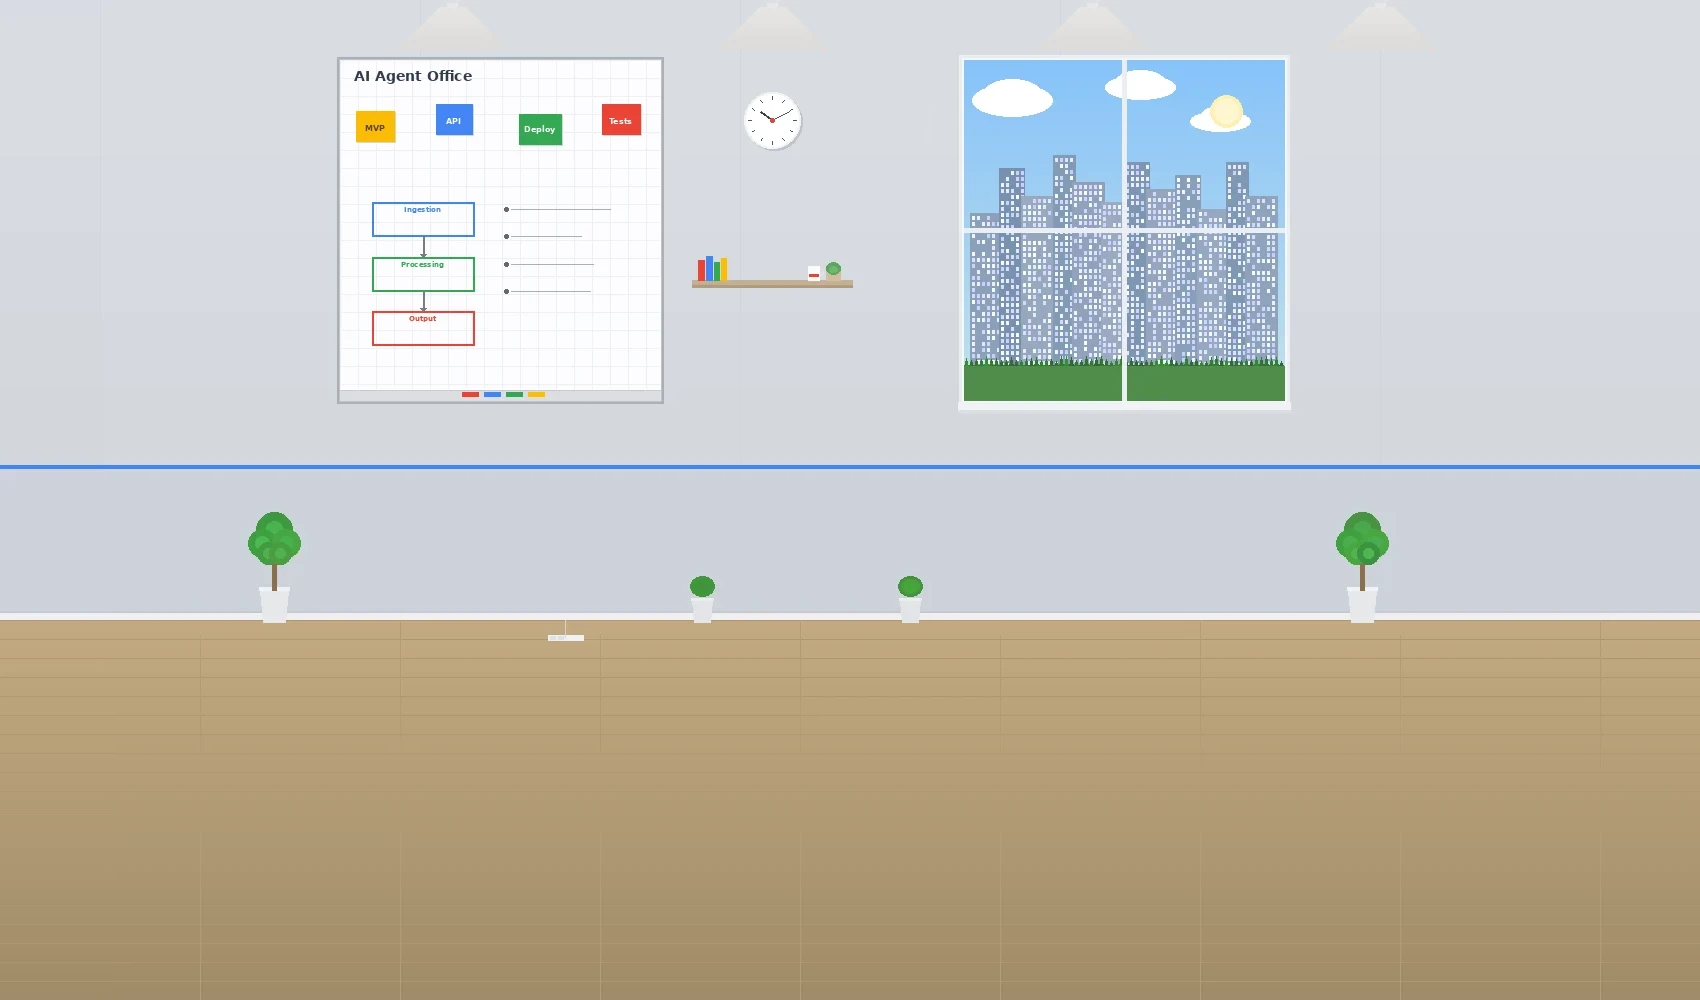
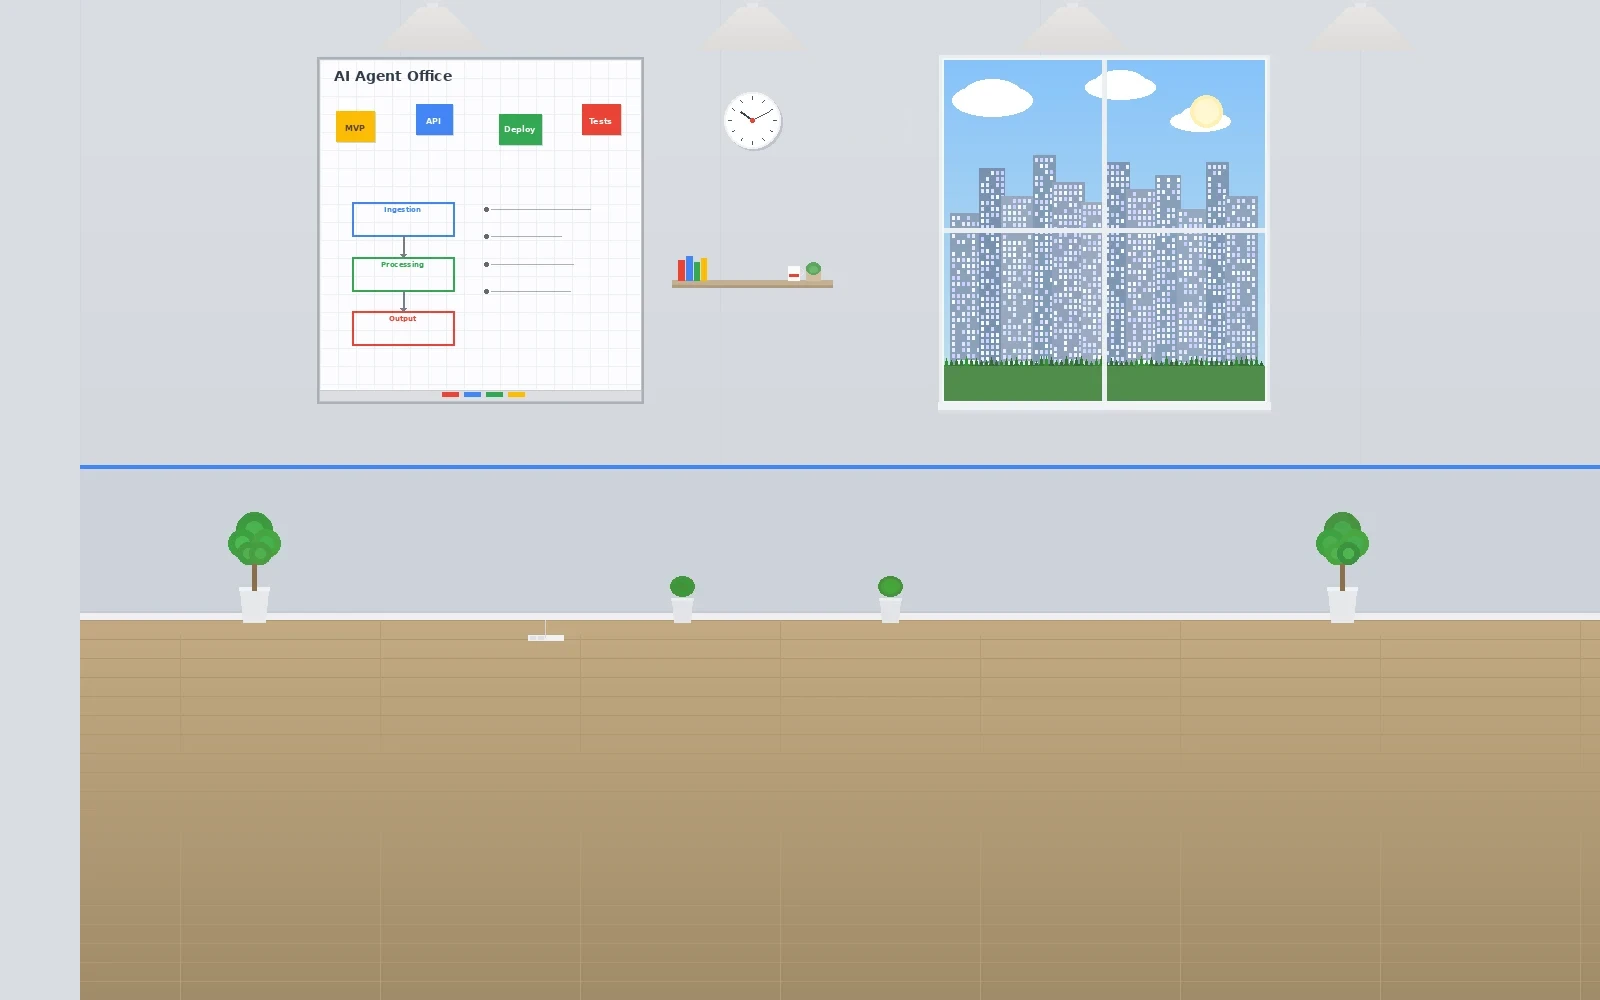
Shift office backgrounds 80px right + restore speech bubbles
Whiteboard repositioned: left margin 237→317px (same 1600px canvas).
Entire image shifted so baseboard moves with content.
Stripes removed. OfficeScene.svelte restored from abbb49f.

diff --git a/src/lib/components/OfficeScene.svelte b/src/lib/components/OfficeScene.svelte
@@ -30,7 +30,7 @@
 		if (totalRows === 1) return { bottom: 22, scale: 1.45, spread: { start: 22, range: 56 }, paperTop: 62 };
 		// 2 rows: back smaller/higher, front bigger/lower
 		if (rowIdx === 0) return { bottom: 34, scale: 1.0, spread: { start: 22, range: 56 }, paperTop: 52 };
-		return { bottom: 8, scale: 1.3, spread: { start: 22, range: 56 }, paperTop: 78 };
+		return { bottom: 14, scale: 1.3, spread: { start: 22, range: 56 }, paperTop: 74 };
 	}
 
 	// Agent position map (id → left %)
@@ -277,9 +277,16 @@
 				{#each row as agent, idx}
 					{@const pct = row.length === 1 ? 50 : (rowStyle.spread.start + idx * (rowStyle.spread.range / (row.length - 1)))}
 					{@const agentState = getAgentState(agent.id)}
+					{@const bubblePos = row.length >= 3 ? (idx === 0 ? 'right' : idx === row.length - 1 ? 'left' : 'center') : 'right'}
+					{@const activityText = getAgentActivity(agent.id) ?? ''}
+					{@const textLen = activityText.length}
+					{@const bubbleBase = textLen < 20 ? 68 : textLen < 40 ? 65 : 62}
+					{@const bubbleLift = bubblePos === 'center' ? (textLen < 25 ? 12 : 18) : 0}
 					<div
 						class="workstation-wrap {agentState}"
-						style="left:{pct}%;--agent-color:{agent.color};--agent-scale:{rowStyle.scale}"
+						class:bubble-left={bubblePos === 'left'}
+						class:bubble-center={bubblePos === 'center'}
+						style="left:{pct}%;--agent-color:{agent.color};--agent-scale:{rowStyle.scale};--bubble-bottom:{bubbleBase + bubbleLift}px"
 					>
 						<!-- Individual desk -->
 						<div class="ind-desk">
@@ -308,8 +315,14 @@
 						<div class="work-pulse"></div>
 						<!-- Character -->
 						<PixelCharacter {agent} agentState={agentState} activity={getAgentActivity(agent.id)} />
-						<!-- Name pill (individual) -->
-						<div class="name-pill" style="--pill-color:{agent.color}">
+						<!-- Speech bubble (above head, only when active) -->
+						{#if getAgentActivity(agent.id) && (agentState === 'working' || agentState === 'thinking')}
+							<div class="speech-bubble {agentState}" style="--bubble-accent:{agent.color}">
+								<span class="bubble-text">{getAgentActivity(agent.id)}</span>
+							</div>
+						{/if}
+						<!-- Name pill (always below desk) -->
+						<div class="agent-name-pill" style="--pill-color:{agent.color}">
 							{agent.name}
 						</div>
 					</div>
@@ -1033,25 +1046,7 @@
 	.desk-leg.dl { left: 12%; }
 	.desk-leg.dr { right: 12%; }
 
-	/* ── Name pills on desk front ── */
-	.name-pill {
-		position: absolute;
-		bottom: -22px;
-		left: 50%;
-		transform: translateX(-50%);
-		background: color-mix(in srgb, var(--pill-color, #4caf50) 70%, #1a1a2e 30%);
-		color: #fff;
-		font-family: 'Chakra Petch', monospace;
-		font-size: 10px;
-		font-weight: 700;
-		letter-spacing: 0.5px;
-		padding: 2px 10px;
-		border-radius: 10px;
-		white-space: nowrap;
-		box-shadow: 0 2px 4px rgba(0,0,0,0.3), inset 0 1px 0 rgba(255,255,255,0.2);
-		z-index: 12;
-		text-shadow: 0 1px 1px rgba(0,0,0,0.3);
-	}
+	/* ── Name pills (legacy, replaced by agent-card) ── */
 
 	/* ── Coffee mug ── */
 	.coffee-mug {
@@ -1178,12 +1173,158 @@
 		transform: translateX(-50%) scale(var(--agent-scale, 1.25));
 		transform-origin: bottom center;
 	}
-	/* Hide default PixelCharacter labels — names are on desk pills, status below desk */
+	/* Hide default PixelCharacter labels — replaced by unified agent-card */
 	.workstation-wrap :global(.ws-label-top) {
 		display: none !important;
 	}
 	.workstation-wrap :global(.ws-label-bottom) {
-		bottom: -42px;
+		display: none !important;
+	}
+
+	/* ── Speech bubble (comic style, above character head) ── */
+	.speech-bubble {
+		position: absolute;
+		bottom: var(--bubble-bottom, 65px);
+		left: 55%;
+		width: max-content;
+		max-width: 110px;
+		min-width: 50px;
+		padding: 4px 7px;
+		border-radius: 10px;
+		font-family: 'Fira Code', monospace;
+		font-size: 9px;
+		font-weight: 600;
+		line-height: 1.3;
+		text-align: left;
+		white-space: normal;
+		z-index: 25;
+		animation: bubblePop 0.3s ease-out;
+	}
+	/* Tail: angled toward character mouth — default for right-side bubbles (left agents) */
+	.speech-bubble::after {
+		content: '';
+		position: absolute;
+		bottom: -10px;
+		left: 2px;
+		width: 0;
+		height: 0;
+		border-left: 3px solid transparent;
+		border-right: 12px solid transparent;
+		border-top: 11px solid transparent;
+	}
+	/* Working: white bubble with agent-colored border */
+	.speech-bubble.working {
+		background: #fff;
+		color: #1a1a2e;
+		border: 2px solid var(--bubble-accent, #4caf50);
+		box-shadow: 2px 3px 8px rgba(0,0,0,0.2);
+	}
+	/* Working tail: border color */
+	.speech-bubble.working::after {
+		border-top-color: var(--bubble-accent, #4caf50);
+	}
+	/* Working tail: inner white fill */
+	.speech-bubble.working::before {
+		content: '';
+		position: absolute;
+		bottom: -7px;
+		left: 5px;
+		width: 0;
+		height: 0;
+		border-left: 2px solid transparent;
+		border-right: 9px solid transparent;
+		border-top: 8px solid #fff;
+		z-index: 1;
+	}
+	/* Thinking: light purple bubble */
+	.speech-bubble.thinking {
+		background: #f3eeff;
+		color: #2a1a4e;
+		border: 2px solid #b388ff;
+		box-shadow: 2px 3px 8px rgba(0,0,0,0.15);
+	}
+	.speech-bubble.thinking::after {
+		border-top-color: #b388ff;
+	}
+	.speech-bubble.thinking::before {
+		content: '';
+		position: absolute;
+		bottom: -7px;
+		left: 5px;
+		width: 0;
+		height: 0;
+		border-left: 2px solid transparent;
+		border-right: 9px solid transparent;
+		border-top: 8px solid #f3eeff;
+		z-index: 1;
+	}
+	.bubble-text {
+		display: -webkit-box;
+		-webkit-line-clamp: 3;
+		-webkit-box-orient: vertical;
+		overflow: hidden;
+		overflow-wrap: break-word;
+		word-break: normal;
+	}
+	@keyframes bubblePop {
+		0% { opacity: 0; transform: translateX(-50%) scale(0.7); }
+		70% { transform: translateX(-50%) scale(1.05); }
+		100% { opacity: 1; transform: translateX(-50%) scale(1); }
+	}
+
+	/* Center agent: bubble straight up, tail centered pointing down */
+	.bubble-center .speech-bubble {
+		left: 50%;
+		transform: translateX(-50%);
+	}
+	.bubble-center .speech-bubble::after {
+		left: 50%;
+		transform: translateX(-50%);
+		border-left: 6px solid transparent;
+		border-right: 6px solid transparent;
+	}
+	.bubble-center .speech-bubble.working::before,
+	.bubble-center .speech-bubble.thinking::before {
+		left: 50%;
+		transform: translateX(-50%);
+		border-left: 4px solid transparent;
+		border-right: 4px solid transparent;
+	}
+	/* Right agent: bubble to upper-left, tail at bottom-right pointing down-right toward mouth */
+	.bubble-left .speech-bubble {
+		left: auto;
+		right: 55%;
+	}
+	.bubble-left .speech-bubble::after {
+		left: auto;
+		right: 2px;
+		border-left: 12px solid transparent;
+		border-right: 3px solid transparent;
+	}
+	.bubble-left .speech-bubble.working::before,
+	.bubble-left .speech-bubble.thinking::before {
+		left: auto;
+		right: 5px;
+		border-left: 9px solid transparent;
+		border-right: 2px solid transparent;
+	}
+
+	/* ── Name pill (always below desk) ── */
+	.agent-name-pill {
+		position: absolute;
+		top: calc(100% + 2px);
+		left: 50%;
+		transform: translateX(-50%);
+		font-family: 'Chakra Petch', monospace;
+		font-size: 10px;
+		font-weight: 700;
+		letter-spacing: 0.5px;
+		color: #fff;
+		background: color-mix(in srgb, var(--pill-color, #4caf50) 75%, #000 25%);
+		padding: 2px 10px;
+		border-radius: 4px;
+		white-space: nowrap;
+		text-shadow: 0 1px 2px rgba(0,0,0,0.3);
 		z-index: 20;
 	}
 
